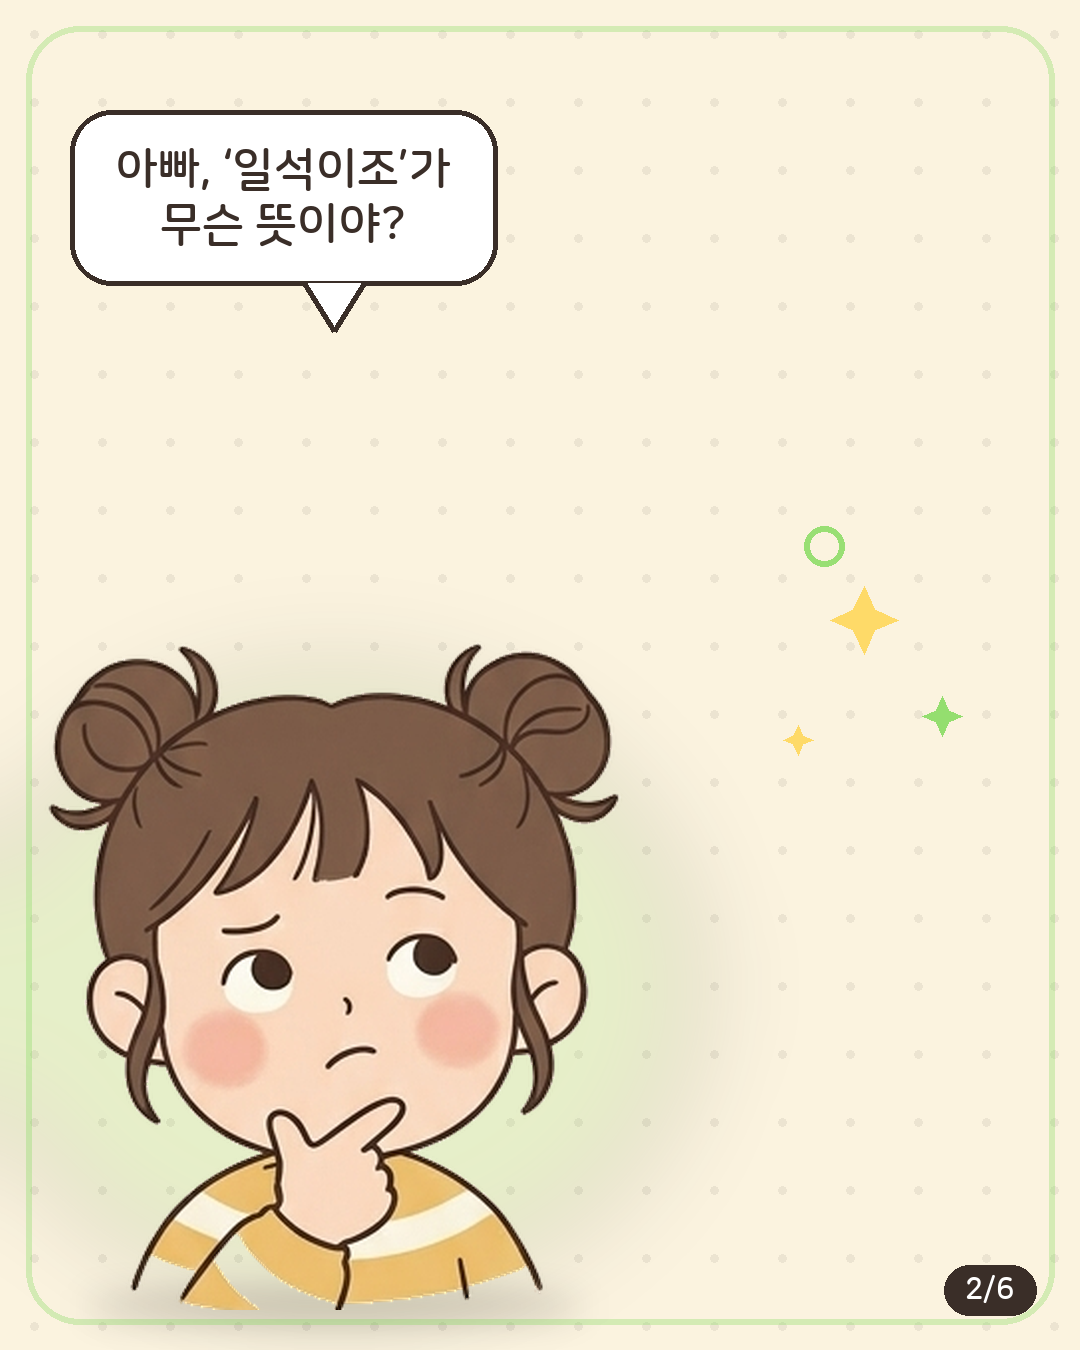
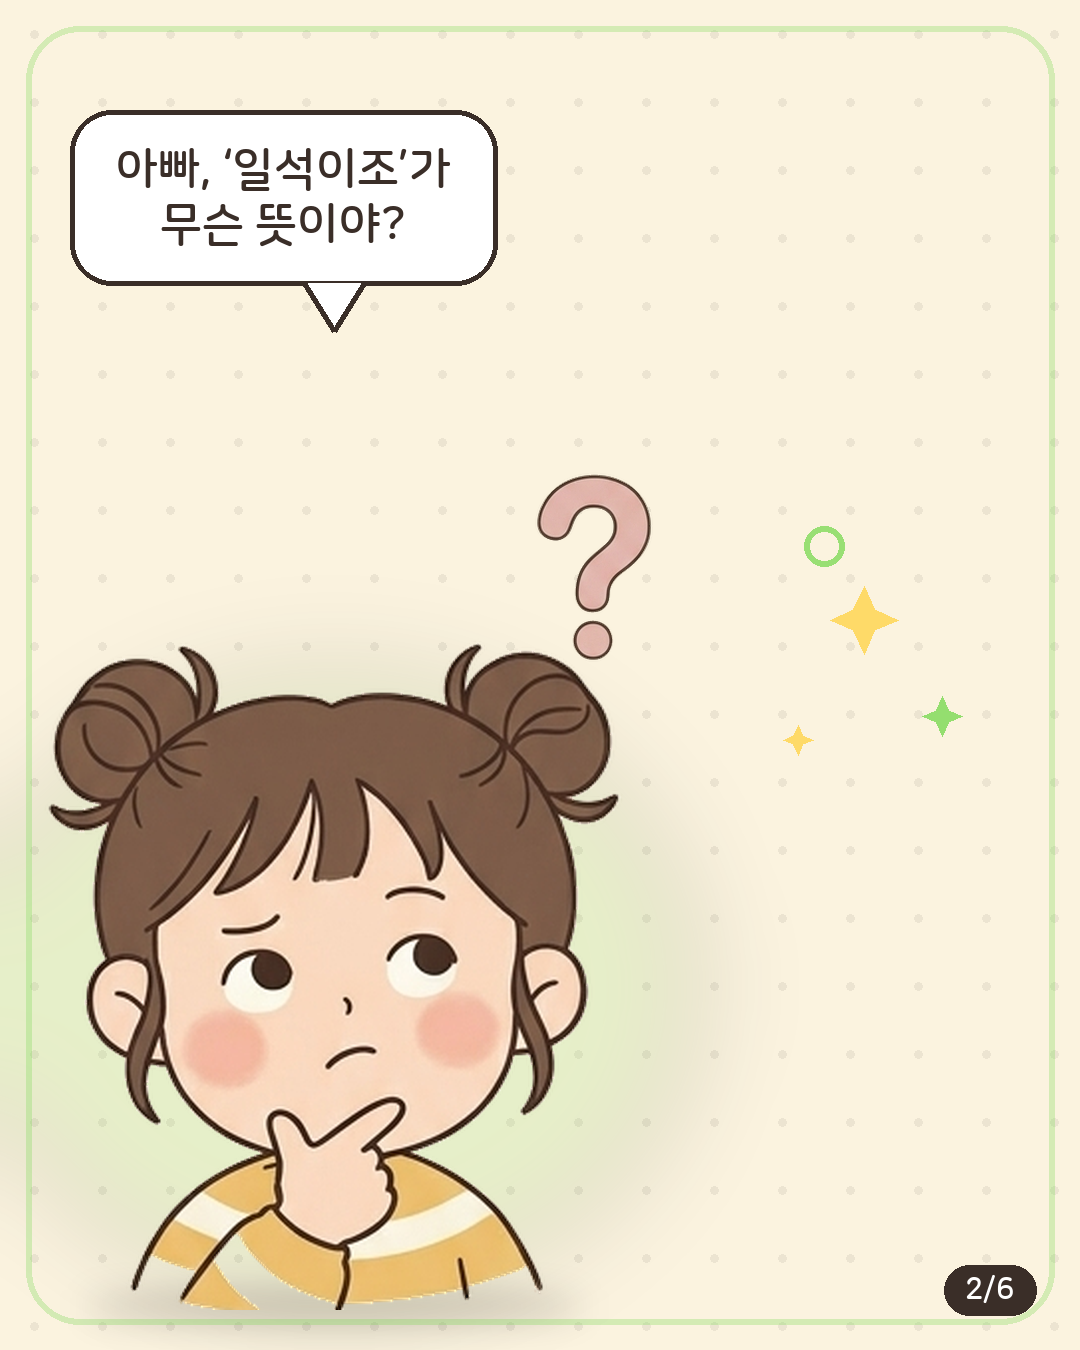
쇼츠 조립기 확장: 소품(props) 배치 + 자동 자막(캡션) + 무성 옵션
- build_toon.py: 패널에 props[] 지원(이름·위치·스케일로 소품/오브젝트 배치).
  카드뉴스·쇼츠 양쪽에 자동 반영.
- build_short.py: 9:16 프레임에 하단 자막 바 자동 생성(panel.caption 우선,
  없으면 vo). 패널당 1자막이라 음성 구간과 자동 동기화. TOON_NOVOICE 옵션 추가.
- 샘플 에피소드 업그레이드: appa_board(칠판 설명)·prop_question·prop_bulb 사용,
  패널별 caption 추가.

Claude-Session: https://claude.ai/code/session_017aZsFFKZYK3uzJsAVUrejt

Changed region(s): [[0.4889, 0.3422, 0.6111, 0.4978]]

diff --git a/toon/build_short.py b/toon/build_short.py
@@ -10,7 +10,7 @@
     python3 toon/build_short.py ilseokijo
     → toon/out/ilseokijo/short.mp4
 """
-import sys, json, subprocess, pathlib, shutil
+import sys, os, json, subprocess, pathlib, shutil
 from PIL import Image, ImageDraw
 import build_toon as bt
 
@@ -38,7 +38,26 @@ def have(cmd):
 
 
 # ── 9:16 프레임 ──────────────────────────────────────
-def frame9(panel_png, ep):
+def caption9(base, text, ink):
+    """하단 자막 바(반투명) — 음성 구간과 자동으로 맞물림(패널당 1자막)."""
+    if not text:
+        return
+    d = ImageDraw.Draw(base)
+    font = bt.f_bold(48)
+    txt = bt.wrap(d, text, font, 900)
+    bb = d.multiline_textbbox((0, 0), txt, font=font, spacing=10, align="center")
+    tw, th = bb[2] - bb[0], bb[3] - bb[1]
+    padx, pady = 40, 26
+    bw, bh = tw + 2 * padx, th + 2 * pady
+    cx, cy = SW // 2, 1690
+    x0, y0 = cx - bw // 2, cy - bh // 2
+    ov = Image.new("RGBA", (SW, SH), (0, 0, 0, 0))
+    ImageDraw.Draw(ov).rounded_rectangle([x0, y0, x0 + bw, y0 + bh], radius=26, fill=(28, 22, 18, 200))
+    base.alpha_composite(ov)
+    bt.mtext(base, (cx, y0 + pady - bb[1]), txt, font, (255, 255, 255), spacing=10, anchor="ma")
+
+
+def frame9(panel_png, ep, panel=None):
     th = ep["theme"]
     ink, acc, acc2 = bt.hx(th["ink"]), bt.hx(th["accent"]), bt.hx(th["accent2"])
     base = Image.new("RGBA", (SW, SH), bt.hx(th["bg"]) + (255,))
@@ -53,13 +72,16 @@ def frame9(panel_png, ep):
     pw = 1004
     ph = int(p.height * pw / p.width)
     p = p.resize((pw, ph), Image.LANCZOS)
-    base.alpha_composite(p, ((SW - pw) // 2, 400))
+    base.alpha_composite(p, ((SW - pw) // 2, 360))
+    # 자동 자막: panel.caption 우선(빈 문자열이면 숨김), 없으면 vo 사용
+    if panel is not None:
+        caption9(base, panel.get("caption", panel.get("vo")), ink)
     bt.mtext(base, (SW // 2, SH - 96), ep.get("handle", "@toon.daily"), bt.f_bold(42), ink, anchor="ma")
     return base.convert("RGB")
 
 
-def frame_with_bar(panel_png, ep, i, n):
-    fr = frame9(panel_png, ep)
+def frame_with_bar(panel_png, ep, panel, i, n):
+    fr = frame9(panel_png, ep, panel)
     d = ImageDraw.Draw(fr)
     bw = SW - 120
     x0, y0 = 60, SH - 40
@@ -185,13 +207,14 @@ def main():
 
     frames = []
     for i in range(n):
-        fr = frame_with_bar(outdir / f"panel{i+1}.png", ep, i, n)
+        fr = frame_with_bar(outdir / f"panel{i+1}.png", ep, ep["panels"][i], i, n)
         fp = tmp / f"f{i}.png"
         fr.save(fp)
         frames.append(fp)
 
     out_mp4 = outdir / "short.mp4"
-    wavs = make_voice(ep, slug, tmp)
+    novoice = os.environ.get("TOON_NOVOICE") == "1" or "--novoice" in sys.argv
+    wavs = None if novoice else make_voice(ep, slug, tmp)
     if wavs:
         total = build_voiced(ep, frames, wavs, tmp, out_mp4)
         mode = "음성(espeak-ng/사용자)"

diff --git a/toon/build_toon.py b/toon/build_toon.py
@@ -124,6 +124,22 @@ def place(base, name, xfrac, scale, baseline=H - 40, flip=False,
     base.alpha_composite(im, (x, y))
     return cx
 
+
+def place_prop(base, name, xf, yf, scale, flip=False):
+    """소품/오브젝트를 (xf,yf) 중심에 배치. xf,yf,scale 은 캔버스 비율."""
+    im = Image.open(CH / f"{name}.png").convert("RGBA")
+    th = int(scale * H)
+    tw = max(1, int(im.width * th / im.height))
+    im = im.resize((tw, th), Image.LANCZOS)
+    if flip:
+        im = im.transpose(Image.FLIP_LEFT_RIGHT)
+    base.alpha_composite(im, (int(xf * W) - tw // 2, int(yf * H) - th // 2))
+
+
+def props_of(base, panel):
+    for pr in panel.get("props", []):
+        place_prop(base, pr["name"], pr["x"], pr["y"], pr.get("scale", 0.12), pr.get("flip", False))
+
 # ── 말풍선 ───────────────────────────────────────────
 def bubble(base, text, side, cx, theme, top=110, maxw=640):
     d = ImageDraw.Draw(base)
@@ -184,6 +200,7 @@ def render(panel, theme, idx, total):
         for c in panel.get("chars", []):
             place(base, c["name"], c["x"], c["scale"], baseline=H - 30,
                   flip=c.get("flip", False), spot=acc, shadow=True)
+        props_of(base, panel)
 
     elif kind == "outro":
         d = ImageDraw.Draw(base)
@@ -193,6 +210,7 @@ def render(panel, theme, idx, total):
         for c in panel.get("chars", []):
             place(base, c["name"], c["x"], c["scale"], baseline=H - 40,
                   flip=c.get("flip", False), spot=acc, shadow=True)
+        props_of(base, panel)
         y = 120
         mtext(base, (W // 2, y), panel.get("title", "영어로는?"), f_title(84), ink, anchor="ma")
         y += 150
@@ -226,6 +244,7 @@ def render(panel, theme, idx, total):
         if len(chars) == 1:  # 한 명이면 빈 쪽에 데코
             emptx = 0.80 if chars[0]["x"] < 0.5 else 0.20
             deco_cluster(base, int(emptx * W), 620, acc, acc2)
+        props_of(base, panel)
         top = 110
         for b in panel.get("bubbles", []):
             side = b["from"]
